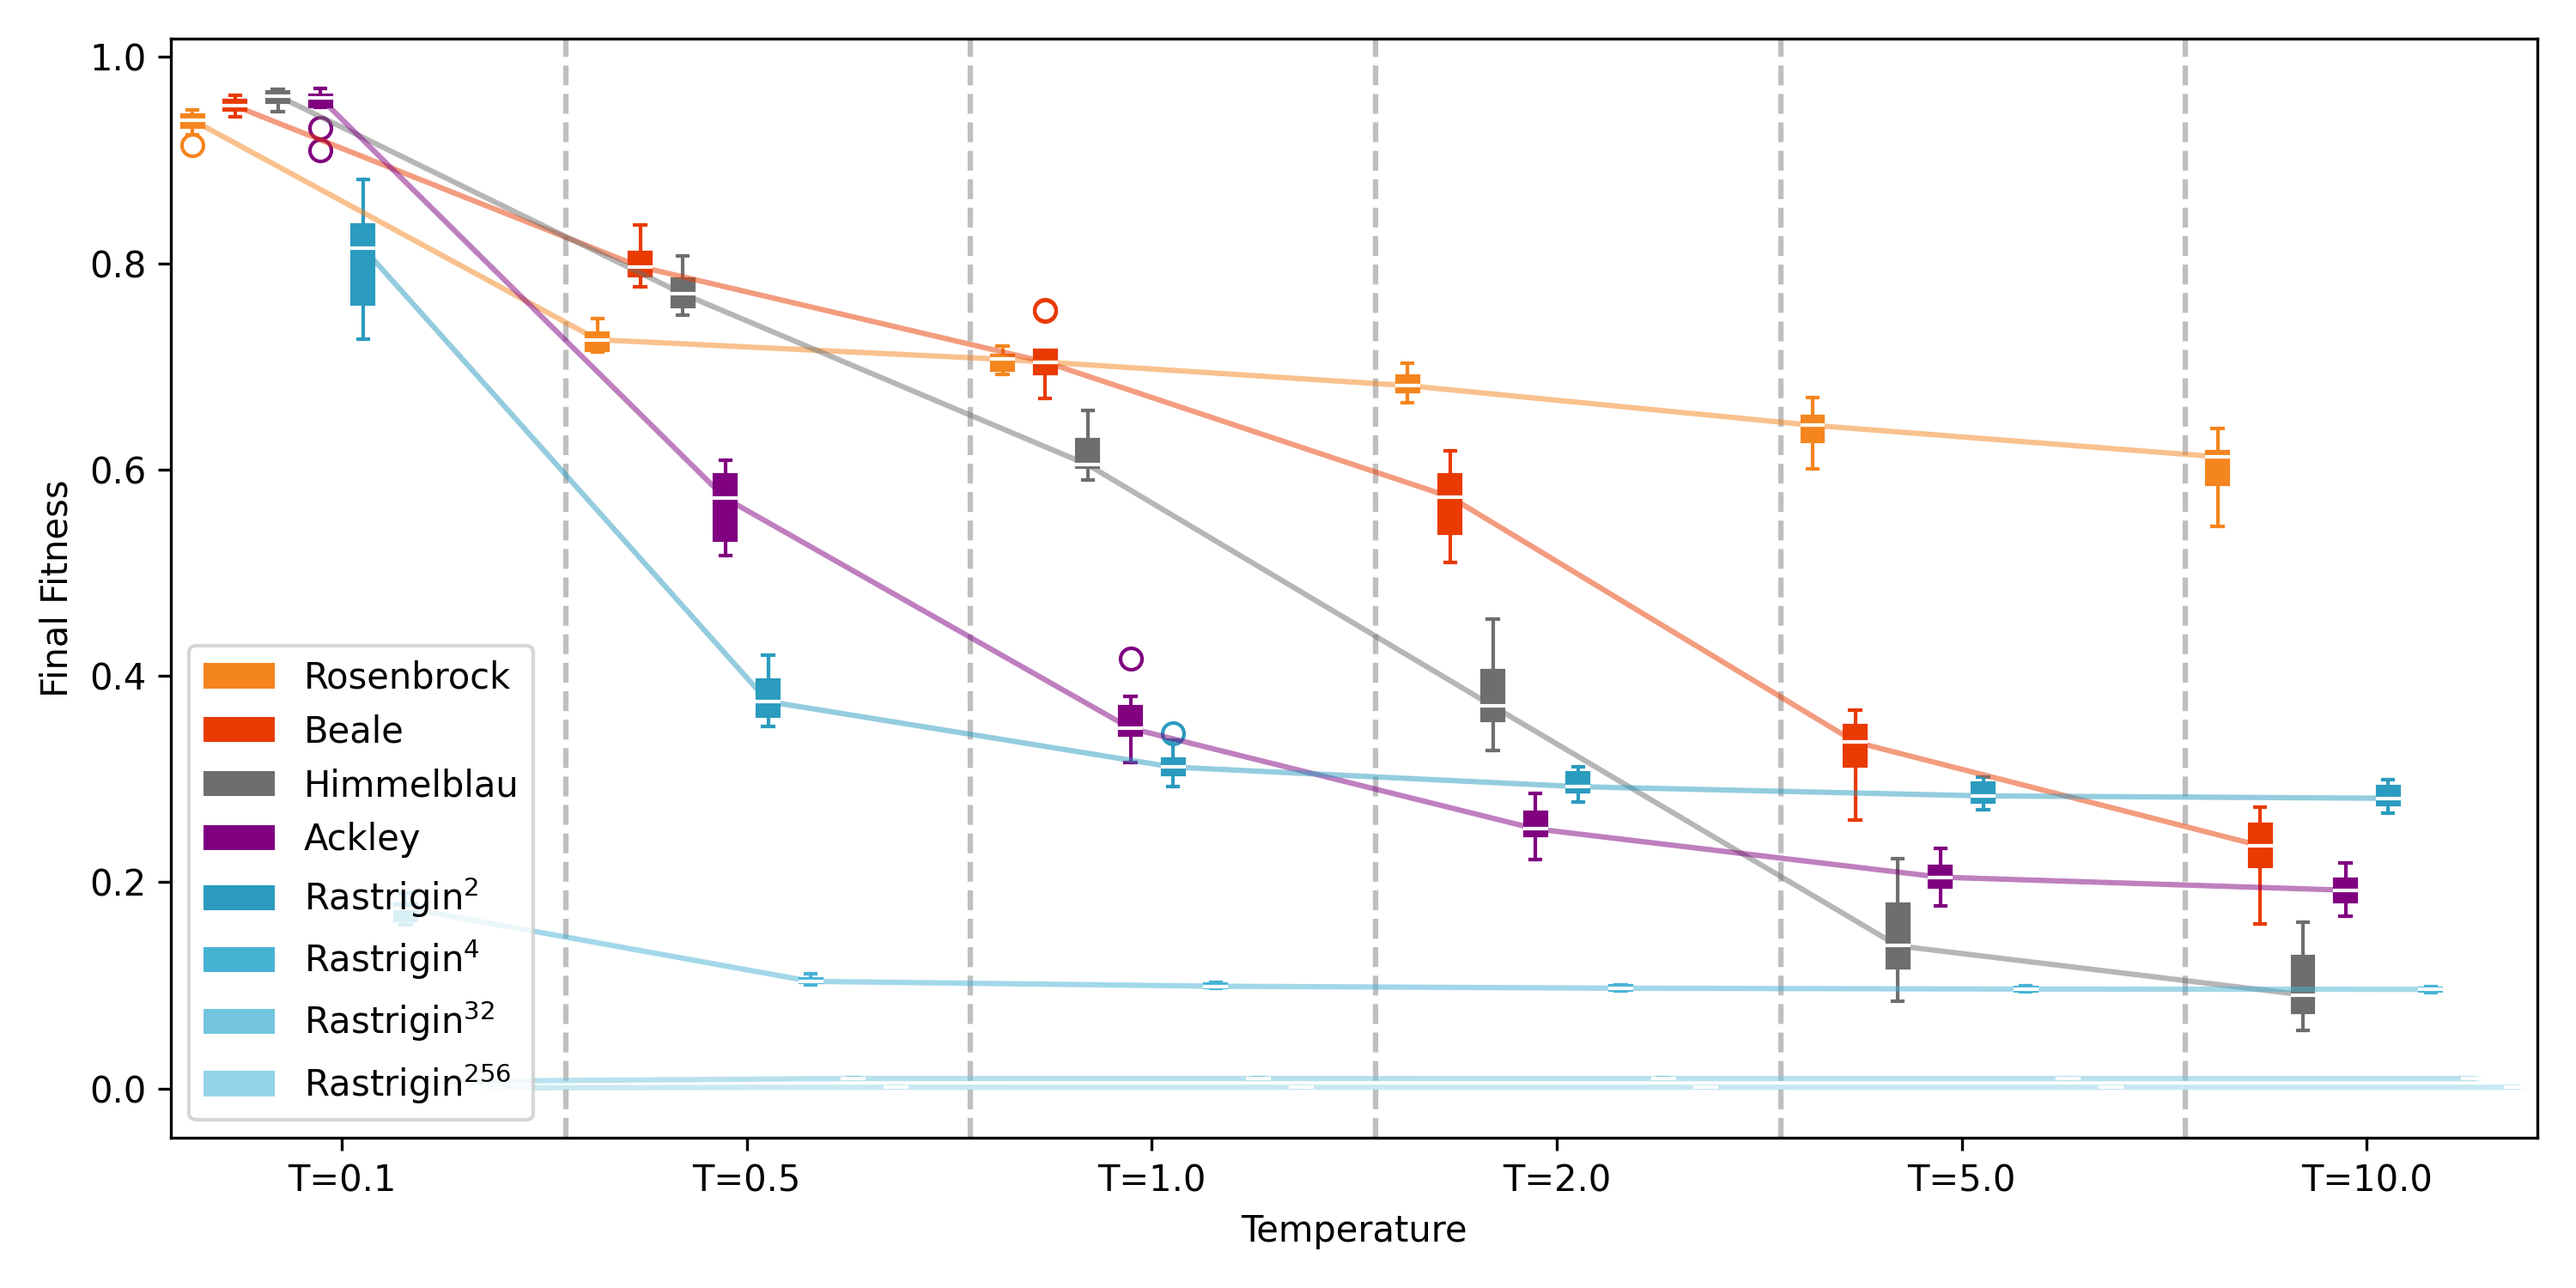
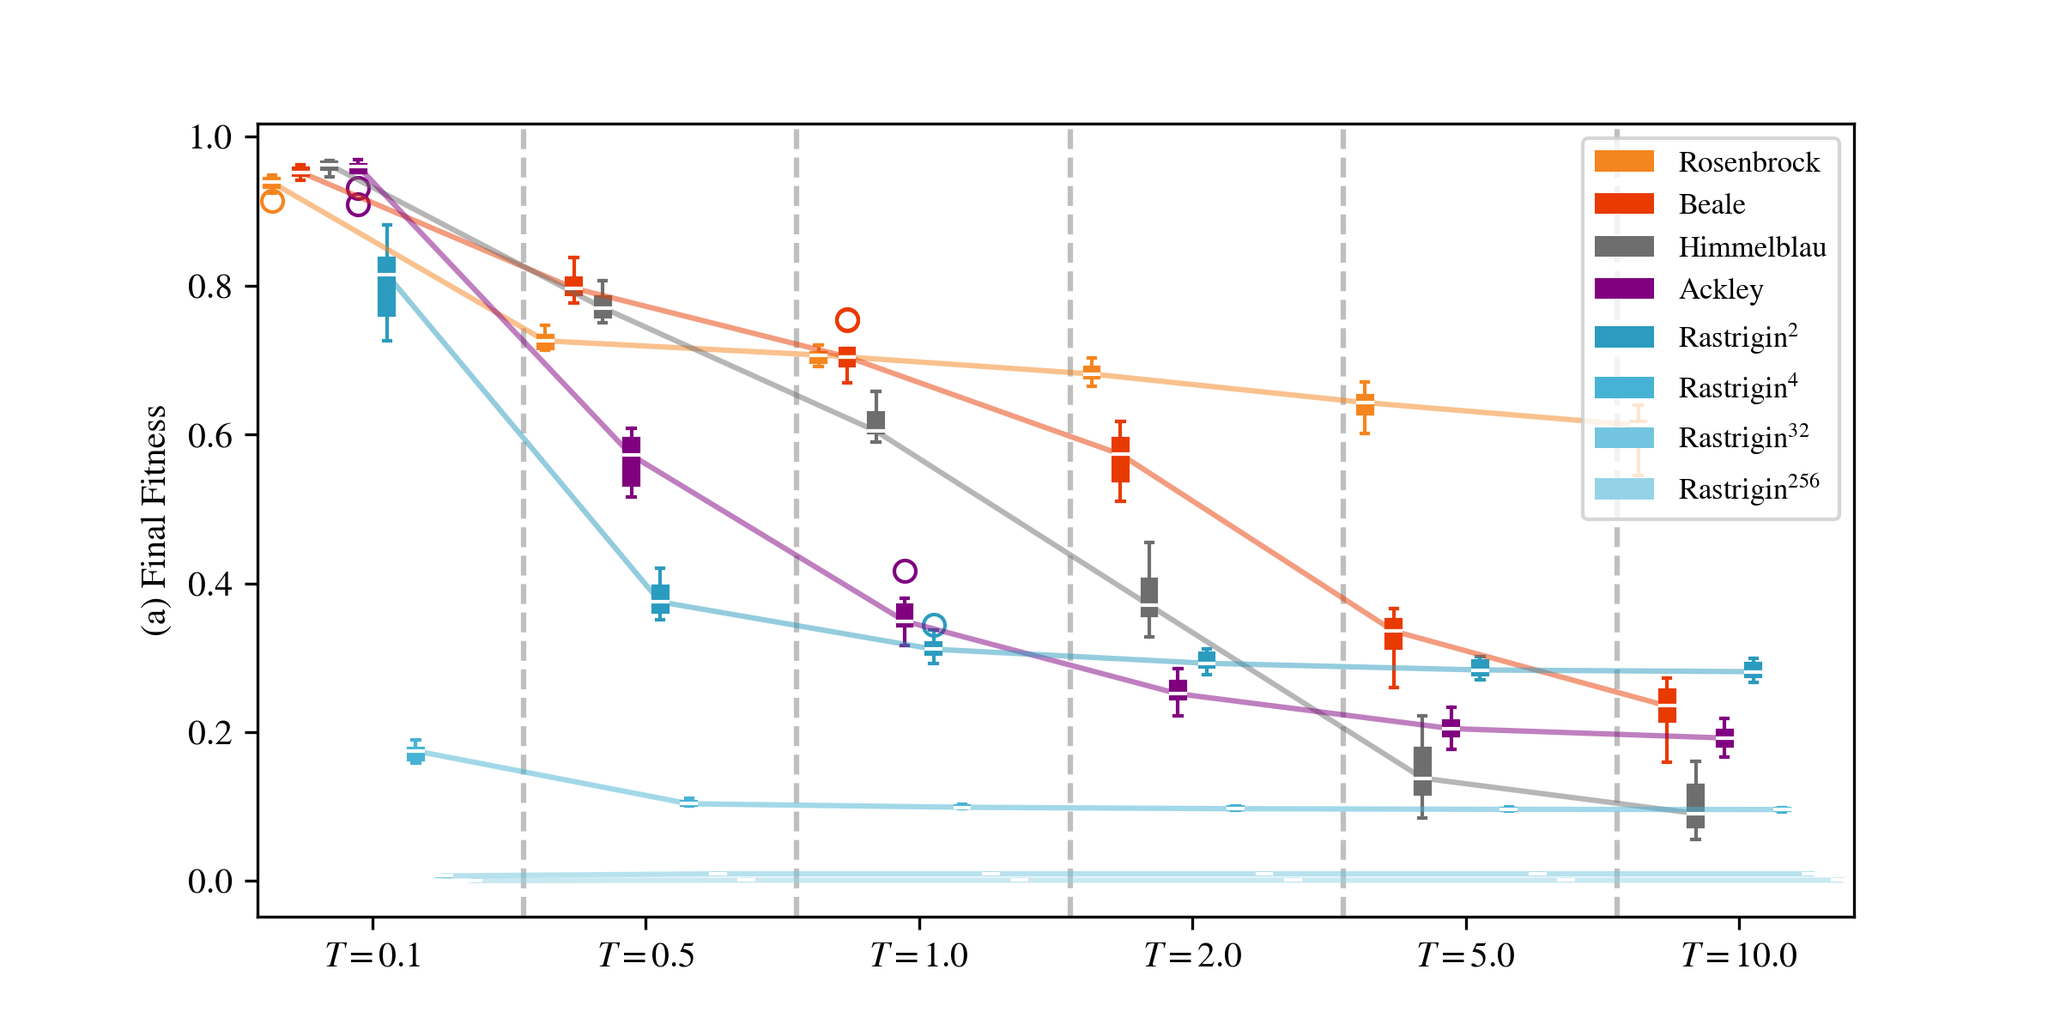
add combined plots

diff --git a/experiments/benchmarks/plot_temperature.py b/experiments/benchmarks/plot_temperature.py
@@ -4,6 +4,10 @@ import numpy as np
 import os
 from statistic import point_entropy, avg_group, std_group
 
+import matplotlib
+matplotlib.rcParams['mathtext.fontset'] = 'stix'
+matplotlib.rcParams['font.family'] = 'STIXGeneral'
+
 # Constants
 experiment_names = ['rosenbrock', 'beale', 'himmelblau', 'ackley', 'rastrigin', 'rastrigin_4d', 'rastrigin_32d', 'rastrigin_256d']
 name_display = {
@@ -35,8 +39,22 @@ def load_data(folder='./data/temperatures/'):
     files = [f for f in os.listdir(folder) if f.endswith('.pt')]
     return [torch.load(os.path.join(folder, f)) for f in files]
 
-def plot_boxplots(temperature_data):
-    plt.figure(figsize=(10, 5))
+def plot_boxplots(records, ax=None, savefig=True, legend=True):
+    # Process data for boxplots
+    temperature_data = {}
+    for record in records:
+        temp = record['temperature']
+        if temp not in temperature_data:
+            temperature_data[temp] = {}
+        for run in record['records']:
+            for exp_name in experiment_names:
+                results = run[exp_name]
+                if exp_name not in temperature_data[temp]:
+                    temperature_data[temp][exp_name] = []
+                temperature_data[temp][exp_name].append(results['benchmark_fitness'].mean().item())
+    if ax is None:
+        plt.figure(figsize=(8, 4))
+        ax = plt.gca()
     
     positions = []
     data = []
@@ -52,7 +70,7 @@ def plot_boxplots(temperature_data):
         curr_pos += len(experiment_names) + spacing
 
     # Create boxplots with different colors
-    bp = plt.boxplot(data, positions=positions, patch_artist=True)
+    bp = ax.boxplot(data, positions=positions, patch_artist=True)
 
     # Color the boxplots
     num_experiments = len(experiment_names)
@@ -72,8 +90,8 @@ def plot_boxplots(temperature_data):
         # set median line color to white
         bp['medians'][i].set_color('white')
 
-    plt.xlabel('Temperature')
-    plt.ylabel('Final Fitness')
+    # ax.set_xlabel('Temperature')
+    ax.set_ylabel('(a) Final Fitness')
 
     # Add temperature labels and vertical lines
     temp_positions = []
@@ -85,7 +103,7 @@ def plot_boxplots(temperature_data):
             plt.axvline(x=curr_pos - spacing/2, color='gray', linestyle='--', alpha=0.5)
         curr_pos += len(experiment_names) + spacing
 
-    plt.xticks(temp_positions, [f'T={t:.1f}' for t in sorted(temperature_data.keys())])
+    ax.set_xticks(temp_positions, [f'$T={t:.1f}$' for t in sorted(temperature_data.keys())])
 
     # add joint lines for each experiment
     for exp_idx, exp_name in enumerate(experiment_names):
@@ -98,20 +116,26 @@ def plot_boxplots(temperature_data):
             exp_positions.append(exp_pos)
             exp_medians.append(np.median(temperature_data[temp][exp_name]))
             curr_pos += len(temperature_data[temp]) + spacing
-        plt.plot(exp_positions, exp_medians, color=colors[exp_idx], linestyle='-', alpha=0.5)
+        ax.plot(exp_positions, exp_medians, color=colors[exp_idx], linestyle='-', alpha=0.5)
 
     # Add legend for experiments
     legend_elements = [plt.Rectangle((0,0),1,1, facecolor=colors[experiment_names.index(exp)]) 
                       for exp in experiment_names]
-    plt.legend(legend_elements, [name_display[exp] for exp in experiment_names],
-              loc='lower left')
+    if legend:
+        ax.legend(legend_elements, [name_display[exp] for exp in experiment_names],
+                 loc='upper right', bbox_to_anchor=(1, 1), fontsize='small')
 
-    plt.tight_layout()
-    plt.savefig('./figures/temperature_boxplot.png', dpi=300)
-    plt.savefig('./figures/temperature_boxplot.pdf')
-    plt.close()
+    # plt.tight_layout()
+    if savefig:
+        plt.savefig('./figures/temperature_boxplot.png', dpi=300)
+        plt.savefig('./figures/temperature_boxplot.pdf', bbox_inches='tight')
+        plt.close()
 
-def plot_qd_scores(records):
+def plot_qd_scores(records, ax=None, savefig=True, legend=True):
+    if ax is None:
+        plt.figure(figsize=(10, 5))
+        ax = plt.gca()
+    
     qd_scores = {}
     for record in records:
         temp = record['temperature']
@@ -126,29 +150,38 @@ def plot_qd_scores(records):
                 qd_score = QD_score_from_trace(X, fitness)
                 qd_scores[temp][exp_name].append(qd_score)
 
-    plt.figure(figsize=(10, 5))
     for exp_name in experiment_names:
         temps = sorted(qd_scores.keys())
         scores = [np.mean(qd_scores[t][exp_name]) for t in temps]
+        # normalize scores by the best score and the worst score
+        # best_score = max(scores)
+        # worst_score = min(scores)
+        # scores = [(s - worst_score) / (best_score - worst_score) for s in scores]
         std_scores = [np.std(qd_scores[t][exp_name]) for t in temps]
         
-        plt.plot(temps, scores, label=name_display[exp_name], 
+        ax.plot(temps, scores, '.-', label=name_display[exp_name],
                 color=colors[experiment_names.index(exp_name)])
-        plt.fill_between(temps, 
-                        [s - std for s, std in zip(scores, std_scores)],
-                        [s + std for s, std in zip(scores, std_scores)],
-                        color=colors[experiment_names.index(exp_name)],
-                        alpha=0.2)
+        # plt.fill_between(temps, 
+        #                 [s - std for s, std in zip(scores, std_scores)],
+        #                 [s + std for s, std in zip(scores, std_scores)],
+        #                 color=colors[experiment_names.index(exp_name)],
+        #                 alpha=0.2)
 
-    plt.xlabel('Temperature')
-    plt.ylabel('QD-Score')
-    plt.legend()
-    plt.semilogx()
-    plt.savefig('./figures/temperature_qd_scores.png', dpi=300)
-    plt.savefig('./figures/temperature_qd_scores.pdf')
-    plt.close()
+    ax.set_xlabel('Temperature')
+    ax.set_ylabel('(c) QD-Score')
+    if legend:
+        ax.legend()
+    ax.semilogx()
+    if savefig:
+        plt.savefig('./figures/temperature_qd_scores.png', dpi=300)
+        plt.savefig('./figures/temperature_qd_scores.pdf', bbox_inches='tight')
+        plt.close()
 
-def plot_entropy(records):
+def plot_entropy(records, ax=None, savefig=True, legend=True):
+    if ax is None:
+        plt.figure(figsize=(10, 5))
+        ax = plt.gca()
+    
     # Calculate entropy for each temperature
     entropy_table = []
     temperature_list = []
@@ -166,18 +199,64 @@ def plot_entropy(records):
     entropy_table = entropy_table[sorted_indices]
 
     # Create entropy plot
-    plt.figure(figsize=(10, 5))
     for i in range(entropy_table.shape[1]):
-        plt.plot(temperature_list, entropy_table[:, i], 
+        ax.plot(temperature_list, entropy_table[:, i], '.-',
                 label=name_display[experiment_names[i]], 
                 color=colors[i])
-    plt.legend()
-    plt.xlabel('Temperature')
-    plt.ylabel('Entropy')
-    plt.semilogx()
-    plt.savefig('./figures/temperature_entropy.png', dpi=300)
-    plt.savefig('./figures/temperature_entropy.pdf')
-    plt.close()
+    if legend:
+        ax.legend()
+    ax.set_xlabel('Temperature')
+    ax.set_ylabel('(b) Entropy')
+    ax.semilogx()
+    if savefig:
+        plt.savefig('./figures/temperature_entropy.png', dpi=300)
+        plt.savefig('./figures/temperature_entropy.pdf', bbox_inches='tight')
+        plt.close()
+
+def combined_plot(records, ax=None, savefig=True):
+    """combine boxplot, entropy, and qd-score plots
+    Structure:
+    - 1st row: boxplot (75%) + legend (25%)
+    - 2nd row: entropy + qd-score (each takes half of the second row)
+    """
+    # Create figure with 2x2 grid
+    scale = 0.85
+    fig = plt.figure(figsize=(10 * scale, 5 * scale))
+    
+    # Import gridspec if not already imported
+    from matplotlib import gridspec
+    
+    # Create main gridspec with proper spacing
+    gs = gridspec.GridSpec(2, 1, height_ratios=[1, 1], hspace=0.3)
+    
+    # Create sub-gridspecs for each row
+    gs_top = gridspec.GridSpecFromSubplotSpec(1, 2, subplot_spec=gs[0], width_ratios=[6, 1], wspace=0.05)
+    gs_bottom = gridspec.GridSpecFromSubplotSpec(1, 2, subplot_spec=gs[1], width_ratios=[1, 1], wspace=0.2)
+    
+    # First row - boxplot on left (75%)
+    ax_box = fig.add_subplot(gs_top[0])
+    plot_boxplots(records, ax=ax_box, savefig=False, legend=False)
+    
+    # First row - legend on right (25%)
+    ax_legend = fig.add_subplot(gs_top[1])
+    ax_legend.axis('off')
+    legend_elements = [plt.Rectangle((0,0),1,1, facecolor=colors[experiment_names.index(exp)]) 
+                      for exp in experiment_names]
+    ax_legend.legend(legend_elements, [name_display[exp] for exp in experiment_names],
+                    loc='center', fontsize='small')
+    
+    # Second row - entropy plot on left (50%)
+    ax_entropy = fig.add_subplot(gs_bottom[0])
+    plot_entropy(records, ax=ax_entropy, savefig=False, legend=False)
+    
+    # Second row - QD score plot on right (50%)
+    ax_qd = fig.add_subplot(gs_bottom[1])
+    plot_qd_scores(records, ax=ax_qd, savefig=False, legend=False)
+
+    if savefig:
+        plt.savefig('./figures/temperature_combined.png', dpi=300, bbox_inches='tight')
+        plt.savefig('./figures/temperature_combined.pdf', bbox_inches='tight')
+        plt.close()
 
 def main():
     # Create figures directory if it doesn't exist
@@ -186,23 +265,13 @@ def main():
     # Load data
     records = load_data()
     
-    # Process data for boxplots
-    temperature_data = {}
-    for record in records:
-        temp = record['temperature']
-        if temp not in temperature_data:
-            temperature_data[temp] = {}
-        for run in record['records']:
-            for exp_name in experiment_names:
-                results = run[exp_name]
-                if exp_name not in temperature_data[temp]:
-                    temperature_data[temp][exp_name] = []
-                temperature_data[temp][exp_name].append(results['benchmark_fitness'].mean().item())
+    
     
     # Create all plots
-    plot_boxplots(temperature_data)
+    plot_boxplots(records)
     plot_entropy(records)
     plot_qd_scores(records)
+    combined_plot(records)
 
 if __name__ == "__main__":
     main()

diff --git a/experiments/benchmarks/plot_alphas.py b/experiments/benchmarks/plot_alphas.py
@@ -9,6 +9,8 @@ name_table = {
     'DDIMScheduler': 'Linear',
 }
 
+colors = ['#6F6E6E', '#F5851E', '#343434']
+
 def get_avg_fitness(record, idx_experiment, idx_step, top_n=1e9):
     data = record['records'][idx_experiment][idx_step]['rastrigin']
     num_steps = data['arguments']['num_step']
@@ -62,12 +64,28 @@ def main():
     for idx_scheduler in range(len(all_records)):
         total_step_fitness, x, scheduler = get_step_fitness(all_records[idx_scheduler], top_n=64)
         total_step_fitness_std, x_std, scheduler_std = get_step_fitness_std(all_records[idx_scheduler])
-        plt.errorbar(x, total_step_fitness, yerr=total_step_fitness_std, label=name_table[scheduler])
+        # Add dots at center points
+        plt.plot(x, total_step_fitness, 'o',
+                color=colors[idx_scheduler], 
+                markersize=4)
+        # Add dashes at top and bottom of error bars
+        plt.plot(x, total_step_fitness + total_step_fitness_std, '_',
+                color=colors[idx_scheduler],
+                markersize=5)
+        plt.plot(x, total_step_fitness - total_step_fitness_std, '_', 
+                color=colors[idx_scheduler],
+                markersize=5)
+        # Plot error bars with caps
+        plt.errorbar(x, total_step_fitness, yerr=total_step_fitness_std,
+                    label=name_table[scheduler], color=colors[idx_scheduler],
+                    capsize=5, capthick=1, elinewidth=1,
+                    fmt='-', # Line only
+                    marker='None') # No markers on the line
 
     # Configure plot
     plt.semilogx()
     plt.legend(loc='lower right')
-    plt.xlabel('Number of steps')
+    plt.xlabel('Number of total steps')
     plt.ylabel('Average fitness (top 64 elites)')
     
     # Save and show plot
